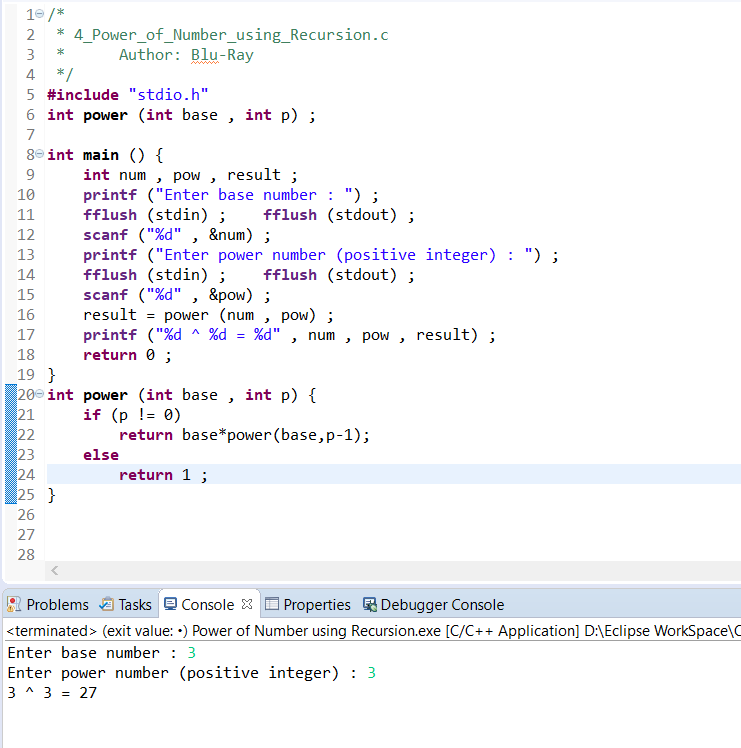
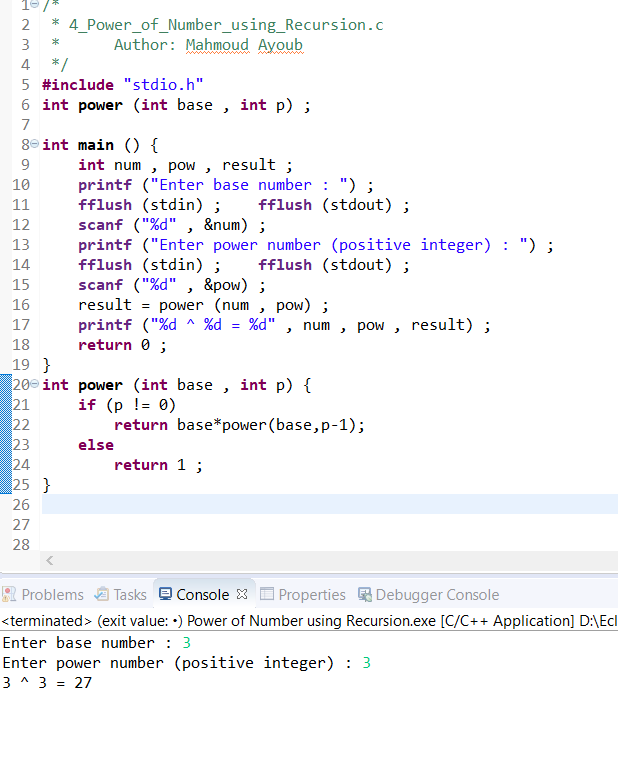
modified a name in EX4

diff --git a/Unit2_C_Programming/3_Functions/4_Power_of_Number_using_Recursion.c b/Unit2_C_Programming/3_Functions/4_Power_of_Number_using_Recursion.c
@@ -1,6 +1,6 @@
 /*
  * 4_Power_of_Number_using_Recursion.c
- *      Author: Blu-Ray
+ *      Author: Mahmoud Ayoub
  */
 #include "stdio.h"
 int power (int base , int p) ;
